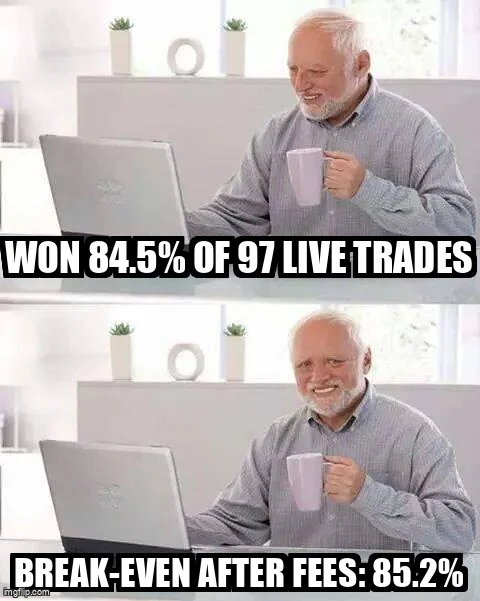
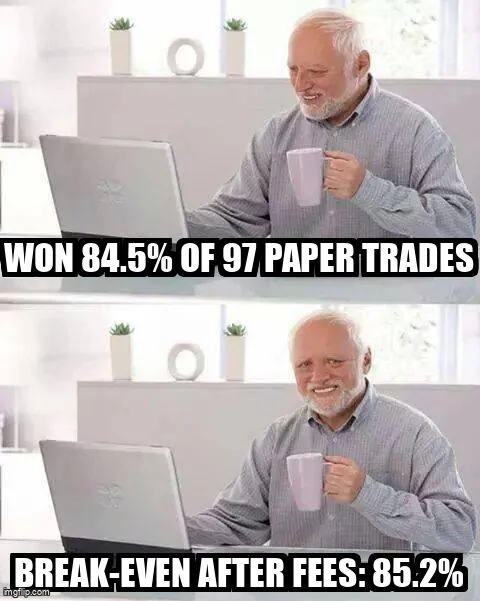
Selection review fixes and KSUR count
- KSUR: more than twenty client websites, mostly in Morocco, plus La Reunion
  (home, portfolio card, /cv, both PDFs, kit); THE ICON partnership kept apart
- Piktechs: tests "run in CI on every push" (deploy does not wait for CI),
  card rewritten in the active voice, no per-seat wording implying paying teams
- Polymarket: dashboard screenshot with a real-money panel removed from
  public/; "paper trades" in the post and its regenerated meme; FR "instances"
- Case study: Play Store link removed; kit: THE ICON wording, "multi-locataires"
- ServicesMotion: unused chat CSS removed
- CV PDFs, previews and og/cv.png rebuilt (2 pages each)

Changed region(s): [[0.0, 0.3894, 1.0, 0.4792]]

diff --git a/src/data/profile.js b/src/data/profile.js
@@ -49,7 +49,7 @@ export const proof = [
   { claim: { en: "Agentic QA with jev, Browser Use's browser agent: 16 permanent checks on what each plan unlocks and who can do what, each one decided by a SQL query on the database; its screenshots on closed tickets found 3 bugs the fixes had missed or introduced.", fr: "QA par agent navigateur avec jev, l'agent navigateur de Browser Use : 16 vérifications permanentes sur ce que débloque chaque offre et qui a le droit de faire quoi, chacune tranchée par une requête SQL sur la base ; ses captures sur des tickets clos ont révélé 3 bugs que les correctifs avaient manqués ou introduits." }, source: 'Piktechs' },
   { claim: { en: 'AI card scanner: of four candidate vision models, two obeyed a prompt-injection card and one errored; the fallback is the one that resisted.', fr: "Scanner de cartes IA : sur quatre modèles de vision candidats, deux ont obéi à une carte piégée par injection de prompt et un a planté ; le repli est celui qui a résisté." }, source: 'Piktechs' },
   { claim: { en: "Internal R&D tool to create, store and replay payment test sets; tests before rollout measured the team's development speed 70% higher.", fr: "Outil interne de R&D pour créer, stocker et rejouer des jeux de tests de paiement ; les tests avant la mise en production ont mesuré une vitesse de développement de l'équipe 70 % plus élevée." }, source: 'Worldline' },
-  { claim: { en: 'Paper trading only: ~12,000 simulated trades across 75 runners, settled against the Chainlink oracle; no edge after fees.', fr: "En paper trading seulement : ~12 000 trades simulés sur 75 runners, réglés contre l'oracle Chainlink ; aucun avantage après frais." }, source: 'Polymarket Up/Down Lab' },
+  { claim: { en: 'Paper trading only: ~12,000 simulated trades across 75 runners, settled against the Chainlink oracle; no edge after fees.', fr: "En paper trading seulement : ~12 000 trades simulés sur 75 instances, réglés contre l'oracle Chainlink ; aucun avantage après frais." }, source: 'Polymarket Up/Down Lab' },
   { claim: { en: 'PDFs into structured Markdown, in 11 languages.', fr: 'Des PDF en Markdown structuré, en 11 langues.' }, source: 'PDFold' },
   { claim: { en: 'Shopify store built, grown through SEO and marketing, and sold.', fr: 'Boutique Shopify créée, développée par le SEO et le marketing, puis vendue.' }, source: 'Mon Jouet Montessori' },
   { claim: { en: 'Corporate AI training: two sessions, in French and English.', fr: 'Formation IA en entreprise : deux sessions, en français et en anglais.' }, source: 'DRIVECO' },
@@ -165,7 +165,7 @@ export const experiences = [
       "Multi-tenant workspaces isolated by **Postgres row-level security** across 143 migrations, with role-based permissions, and **live Stripe billing** with per-seat team plans: checkout, customer portal, webhooks and a scheduled reconciliation with Stripe. Every billing or permission change gets a **second review by a different model** from the one that wrote it.",
       "Shipped an **AI business-card scanner**: vision LLM with strict JSON output, a per-user quota and on-device OCR as the last resort; chose the cross-provider fallback by **prompt-injection testing** (==2 of 4== candidate models obeyed an injected card).",
       "**Agentic QA with jev**, Browser Use's browser agent: it signs in to the test app as a user in each account state (free, Pro, lapsed, team member, frozen team) and follows a plain-English goal; **a SQL query on the database then decides pass or fail**. ==16 permanent checks== on what each plan unlocks and who can do what; its before/after screenshots on closed tickets found ==3 bugs== that the fixes had missed or introduced. Open-sourced as account-state-check.",
-      "==1,493 unit tests== and ==140 Playwright tests== (Nov 2026) gate CI/CD across separate test and production environments.",
+      "==1,493 unit tests== and ==140 Playwright tests== (Nov 2026) run in CI on every push, with separate test and production environments.",
       "**Android app on Google Play** from the same codebase (Capacitor), CRM sync and a Zapier integration.",
     ],
     stack: ["React", "TypeScript", "Vite", "Tailwind", "Supabase (Postgres, RLS, Edge Functions)", "Stripe", "Capacitor", "OpenRouter", "Resend", "Playwright", "Vitest", "jev (Browser Use)", "GitHub Actions", "Cloudflare Pages", "Claude Code"],
@@ -201,7 +201,7 @@ export const experiences = [
     location: "France · Morocco",
     summary: "Web agency (agence-ksur.com): websites, e-commerce and web apps for small businesses.",
     achievements: [
-      "Run the **technical stack and delivery** for ==six live client sites== in Morocco and La Réunion.",
+      "KSUR has built ==more than twenty client websites==, mostly in Morocco, plus La Réunion; I run the **technical side, delivery and hosting**.",
       "**Partnership with THE ICON** (the-icon.be), a Belgian marketing and sales agency: KSUR built THE ICON's website, and the sites of two of its Belgian clients in French, English and Dutch.",
       "Run the agency's hosting: one VPS serving the agency site, its demo sites and five client sites, with deployment on every push to GitHub and an email check per client site in CI.",
     ],
@@ -333,7 +333,7 @@ const allProjects = [
     category: 'saas',
     categoryLabel: 'SaaS',
     role: 'Co-Founder & CTO',
-    description: 'B2B SaaS for digital business cards (NFC and QR) at professional events: lead capture with an AI card scanner, a CRM and team workspaces. I am its only engineer. Workspaces are isolated by Postgres row-level security, team plans are billed per seat through Stripe webhooks and a scheduled reconciliation, and the scanner\'s fallback model was chosen by prompt-injection tests. 1,493 unit and 140 Playwright tests gate each release (Nov 2026).',
+    description: 'B2B SaaS for digital business cards (NFC and QR) at professional events: lead capture with an AI card scanner, a CRM and team workspaces. I am its only engineer: workspace isolation with Postgres row-level security, per-seat Stripe billing with webhooks and a scheduled reconciliation, and a scanner fallback model I chose by prompt-injection tests. 1,493 unit and 140 Playwright tests run in CI on every push (Nov 2026).',
     previews: [
       { label: 'Dashboard', src: `${base}/portfolio/piktechs-devices.webp` },
       { label: 'Live site', src: 'https://piktechs.com' },
@@ -478,7 +478,7 @@ const allProjects = [
     category: 'agency',
     categoryLabel: 'Agency',
     role: 'CTO',
-    description: 'Web agency where I am CTO: websites, e-commerce and web apps for small businesses, with six client sites live in Morocco and La Réunion. Through a partnership with THE ICON, a Belgian marketing agency, KSUR also built THE ICON\'s website and the sites of two of its Belgian clients. I run the technical stack, the delivery and the hosting.',
+    description: 'Web agency where I am CTO. It has built more than twenty client websites, mostly in Morocco, plus La Réunion, along with e-commerce and web apps for small businesses. Through a partnership with THE ICON, a Belgian marketing agency, KSUR also built THE ICON\'s website and the sites of two of its Belgian clients. I run the technical side, the delivery and the hosting.',
     // agence-ksur.com sets frame-ancestors 'self', so it cannot be previewed in an iframe.
     previews: [
       { label: 'Homepage', src: `${base}/portfolio/ksur-home.webp` },
@@ -495,9 +495,9 @@ const allProjects = [
     category: 'research',
     categoryLabel: 'Research',
     role: 'Solo',
-    description: 'A search for a trading edge on Polymarket\'s 5 and 15 minute binary crypto markets, in paper trading only: hypothesis, out-of-sample backtest, simulated trades against the live order books, then falsification. ~12,000 simulated trades across 75 runners, settled against the Chainlink oracle. Result: no edge after fees, and nearly every edge I found came from a measurement artifact.',
+    description: 'A search for a trading edge on Polymarket\'s 5 and 15 minute binary crypto markets, in paper trading only: hypothesis, out-of-sample backtest, simulated trades against the live order books, then falsification. ~12,000 simulated trades across 75 runners, settled against the Chainlink oracle. Result: no edge after fees; nearly every apparent edge came from a measurement artifact.',
     // github.com sets X-Frame-Options: DENY, so the repo cannot be previewed in an iframe.
-    // The dashboard screenshot (portfolio/polymarket-dashboard.webp) left the card on 2026-11-26: it shows a real-money panel.
+    // The dashboard screenshot (portfolio/polymarket-dashboard.webp) was removed on 2026-11-26: it showed a real-money panel.
     previews: [
       { label: 'What it found', src: `${base}/portfolio/polymarket-illustration.webp` },
     ],

diff --git a/public/fr.tex b/public/fr.tex
@@ -102,10 +102,10 @@ Ingénieur full-stack, je mets des logiciels en production depuis 2019 (cybersé
 \role{Cofondateur et CTO}{\org{https://piktechs.com}{Piktechs}}{France}{Mars 2026 -- Aujourd'hui}
 \begin{itemize}
     \item \textbf{Seul ingénieur :} prototype de deux semaines transformé en \textbf{SaaS B2B en production} pour collecter des contacts sur les salons et événements
-    \item Espaces multi-clients cloisonnés par la \textbf{RLS de Postgres} (143 migrations) et \textbf{facturation Stripe en production} avec offres par siège, webhooks et rapprochement planifié ; chaque changement de facturation ou de permissions passe des tests, une \textbf{relecture par un second modèle} et mon accord avant la production
+    \item Espaces multi-locataires cloisonnés par la \textbf{RLS de Postgres} (143 migrations) et \textbf{facturation Stripe en production} avec offres par siège, webhooks et rapprochement planifié ; chaque changement de facturation ou de permissions passe des tests, une \textbf{relecture par un second modèle} et mon accord avant la production
     \item \textbf{Scanner de cartes de visite IA} : modèle de vision avec sortie JSON stricte, quota par utilisateur et OCR sur l'appareil en dernier recours ; modèle de repli choisi par des \textbf{tests d'injection de prompt} (\m{2 modèles candidats sur 4} ont obéi à une carte piégée)
     \item \textbf{QA agentique avec jev}, l'agent navigateur de Browser Use : il se connecte à l'application de test avec un compte dans chaque état (gratuit, Pro, expiré, membre d'équipe) et suit un objectif en langage naturel ; \textbf{une requête SQL sur la base décide ensuite si le test passe}. \m{16 vérifications permanentes} sur les accès de chaque offre et les droits ; ses captures avant/après sur des tickets clos ont révélé \m{3 bugs} que les correctifs avaient manqués ou introduits. En open source : \link{https://github.com/emoubarak/account-state-check}{account-state-check}
-    \item \m{1~493 tests unitaires} et \m{140 tests Playwright} (nov. 2026) obligatoires dans la CI/CD, environnements de test et de production séparés ; \textbf{application Android publiée sur Google Play} depuis le même code (Capacitor)
+    \item \m{1~493 tests unitaires} et \m{140 tests Playwright} (nov. 2026) exécutés par la CI à chaque push, environnements de test et de production séparés ; \textbf{application Android publiée sur Google Play} depuis le même code (Capacitor)
 \end{itemize}
 \stackline{React\sep TypeScript\sep Vite\sep Tailwind\sep Supabase (Postgres, RLS, Edge Functions)\sep Stripe\sep Capacitor\sep OpenRouter\sep Resend\sep Playwright, Vitest\sep jev (Browser Use)\sep GitHub Actions\sep Cloudflare Pages\sep Claude Code}
 
@@ -114,7 +114,7 @@ Ingénieur full-stack, je mets des logiciels en production depuis 2019 (cybersé
 \begin{itemize}
     \item \textbf{Conception et exploitation de mon environnement d'agents} : skills, hooks qui transforment les corrections répétées en contrôles, routines planifiées avec alertes d'échec, un \textbf{modèle de 180B à mélange d'experts} (environ 6B actifs par token) en local sur une RTX 3080 20 Go (\link{https://moubarak.dev/harness}{moubarak.dev/harness})
     \item Conception et animation de \textbf{formations IA} pour DRIVECO (opérateur de bornes de recharge) : deux sessions, en français et en anglais, construites sur les processus de l'entreprise, avec un \link{https://www.linkedin.com/posts/el-mahdi-moubarak_merci-\%C3\%A0-toute-l\%C3\%A9quipe-driveco-de-mavoir-share-7480266785208926210-AIX7/}{témoignage public} de sa DRH
-    \item Également CTO de \link{https://www.agence-ksur.com}{KSUR} (agence web) : choix techniques et livraison de \m{six sites clients en ligne} au Maroc et à La Réunion. En partenariat avec \link{https://the-icon.be}{THE ICON} (Belgique), KSUR a réalisé le site de THE ICON et ceux de deux de ses clients belges
+    \item Également CTO de \link{https://www.agence-ksur.com}{KSUR} (agence web) : \m{plus de vingt sites clients}, surtout au Maroc, et à La Réunion ; j'en dirige la partie technique, la livraison et l'hébergement. En partenariat avec \link{https://the-icon.be}{THE ICON} (Belgique), KSUR a réalisé le site de THE ICON et ceux de deux de ses clients belges
 \end{itemize}
 \stackline{TypeScript\sep Python\sep Next.js\sep Node.js\sep Supabase\sep Docker\sep API OpenAI, Claude, Gemini\sep MCP\sep Browser~Use\sep Claude Code}
 
@@ -148,7 +148,7 @@ Ingénieur full-stack, je mets des logiciels en production depuis 2019 (cybersé
 \begin{itemize}
     \project{account-state-check}{https://github.com/emoubarak/account-state-check}{\textbf{skill d'agent open source (MIT)} pour Claude Code, Codex et OpenClaw, qui applique la \textbf{QA par agent navigateur} décrite plus haut à n'importe quelle application de préproduction \stack{Python, CDP}}
     \project{browser-agents}{}{\textbf{orchestrateur auto-hébergé d'agents navigateur} (privé) : profils connectés persistants, un processus isolé par tâche, \textbf{reprise en main par un humain en direct} (WebRTC) pour les connexions et la 2FA, back-office de suivi \stack{Python, Podman, CDP}}
-    \project{Polymarket Up/Down Lab}{https://github.com/emoubarak/polymarket-updown-lab}{recherche en \textbf{paper trading} (trading simulé) sur les marchés crypto à 5 et 15 minutes de Polymarket : \textbf{backtests hors échantillon}, puis \m{\textasciitilde12~000 transactions simulées} sur 75 runners face aux carnets d'ordres en direct. Résultat : \textbf{aucun avantage après frais}}
+    \project{Polymarket Up/Down Lab}{https://github.com/emoubarak/polymarket-updown-lab}{recherche en \textbf{paper trading} (trading simulé) sur les marchés crypto à 5 et 15 minutes de Polymarket : \textbf{backtests hors échantillon}, puis \m{\textasciitilde12~000 transactions simulées} sur 75 instances face aux carnets d'ordres en direct. Résultat : \textbf{aucun avantage après frais}}
     \project{claude-skill-router}{https://github.com/emoubarak/claude-skill-router}{fait charger à Claude Code les skills dont un prompt a besoin ; sur un \textbf{banc d'essai qui rejoue mes propres sessions}, la part des skills utiles chargés passe de \m{57~\% à 84~\%} sur des prompts jamais vus au réglage \stack{Python, hooks Claude Code}}
     \project{WebJev-35B-A3B-GGUF}{https://huggingface.co/emoubarak/WebJev-35B-A3B-GGUF}{\textbf{conversion GGUF} d'un modèle de décision pour agents navigateur, \m{409 téléchargements} sur Hugging Face (nov. 2026) ; en Q4, mêmes décisions qu'en Q8 sur 52 des 54 étapes réelles}
     \project{À lire (en anglais)}{https://moubarak.dev/blog}{\link{https://moubarak.dev/cv\#ai}{ma méthode avec l'IA} ; études de cas : \link{https://moubarak.dev/blog/case-study-ai-card-scanner}{scanner de cartes IA}, \link{https://moubarak.dev/blog/case-study-jev-check}{QA agentique} et \link{https://moubarak.dev/blog/case-study-piktechs}{Piktechs}}

diff --git a/public/en.tex b/public/en.tex
@@ -104,7 +104,7 @@ Full-stack engineer shipping production software since 2019 in cybersecurity, he
     \item Multi-tenant workspaces isolated by \textbf{Postgres row-level security} (143 migrations) and \textbf{live Stripe billing} with per-seat plans, webhooks and a scheduled reconciliation; each billing or permission change needs tests, a \textbf{review by a second model} and my approval before production
     \item Shipped an \textbf{AI business-card scanner}: vision LLM with strict JSON output, per-user quota and on-device OCR as last resort; chose the cross-provider fallback by \textbf{prompt-injection testing} (\m{2 of 4} candidate models obeyed an injected card)
     \item \textbf{Agentic QA with jev}, Browser Use's browser agent: it signs in to the test app as a user in each account state (free, Pro, lapsed, team member) and follows a plain-English goal; \textbf{a SQL query on the database then decides pass or fail}. \m{16 permanent checks} on what each plan unlocks and who can do what; its screenshots on closed tickets found \m{3 bugs} the fixes had missed or introduced. Open-sourced as \link{https://github.com/emoubarak/account-state-check}{account-state-check}
-    \item \m{1,493 unit tests} and \m{140 Playwright tests} (Nov 2026) gate CI/CD across separate test and production environments; \textbf{Android app on Google Play} from the same codebase (Capacitor)
+    \item \m{1,493 unit tests} and \m{140 Playwright tests} (Nov 2026) run in CI on every push, with separate test and production environments; \textbf{Android app on Google Play} from the same codebase (Capacitor)
 \end{itemize}
 \stackline{React\sep TypeScript\sep Vite\sep Tailwind\sep Supabase (Postgres, RLS, Edge Functions)\sep Stripe\sep Capacitor\sep OpenRouter\sep Resend\sep Playwright, Vitest\sep jev (Browser Use)\sep GitHub Actions\sep Cloudflare Pages\sep Claude Code}
 
@@ -113,7 +113,7 @@ Full-stack engineer shipping production software since 2019 in cybersecurity, he
 \begin{itemize}
     \item \textbf{Built and run my own agent harness}: skills, hooks that turn repeated corrections into enforced checks, scheduled routines with failure alerts, and a \textbf{180B mixture-of-experts model} (about 6B active per token) running locally on an RTX 3080 20 GB (\link{https://moubarak.dev/harness}{moubarak.dev/harness})
     \item Designed and delivered \textbf{corporate AI training} for DRIVECO (EV charging operator): two sessions, in French and English, built on the company's own workflows, with a \link{https://www.linkedin.com/posts/el-mahdi-moubarak_merci-\%C3\%A0-toute-l\%C3\%A9quipe-driveco-de-mavoir-share-7480266785208926210-AIX7/}{public testimonial} from its Chief People Officer
-    \item Also CTO of \link{https://www.agence-ksur.com}{KSUR} (web agency): technical stack and delivery for \m{six live client sites} in Morocco and La Réunion. In partnership with \link{https://the-icon.be}{THE ICON} (Belgium), KSUR built THE ICON's website and the sites of two of its Belgian clients
+    \item Also CTO of \link{https://www.agence-ksur.com}{KSUR} (web agency): \m{more than twenty client websites}, mostly in Morocco, plus La Réunion; I run the technical side, delivery and hosting. In partnership with \link{https://the-icon.be}{THE ICON} (Belgium), KSUR built THE ICON's website and the sites of two of its Belgian clients
 \end{itemize}
 \stackline{TypeScript\sep Python\sep Next.js\sep Node.js\sep Supabase\sep Docker\sep OpenAI, Claude, Gemini APIs\sep MCP\sep Browser~Use\sep Claude Code}
 
@@ -147,7 +147,7 @@ Full-stack engineer shipping production software since 2019 in cybersecurity, he
 \begin{itemize}
     \project{account-state-check}{https://github.com/emoubarak/account-state-check}{\textbf{open-source (MIT) agent skill} for Claude Code, Codex and OpenClaw: the \textbf{browser-agent QA} above, packaged for any staging app \stack{Python, CDP}}
     \project{browser-agents}{}{\textbf{self-hosted orchestrator for browser agents} (private): persistent logged-in browser profiles, one isolated worker per task, \textbf{live human hand-off} over WebRTC for logins and 2FA, back-office with a task timeline \stack{Python, Podman, CDP}}
-    \project{Polymarket Up/Down Lab}{https://github.com/emoubarak/polymarket-updown-lab}{research in \textbf{paper trading} on Polymarket's 5- and 15-minute crypto markets: \textbf{out-of-sample backtests}, then \m{\textasciitilde12,000 simulated trades} across 75 runners against the live order books. Result: \textbf{no edge after fees}}
+    \project{Polymarket Up/Down Lab}{https://github.com/emoubarak/polymarket-updown-lab}{\textbf{paper-trading research} on Polymarket's 5- and 15-minute crypto markets: \textbf{out-of-sample backtests}, then \m{\textasciitilde12,000 simulated trades} across 75 runners against the live order books. Result: \textbf{no edge after fees}}
     \project{claude-skill-router}{https://github.com/emoubarak/claude-skill-router}{makes Claude Code load the skills a prompt needs; on a \textbf{bench replayed from my own sessions}, the share of needed skills loaded rose from \m{57\% to 84\%} on prompts the rules were never tuned on \stack{Python, Claude Code hooks}}
     \project{WebJev-35B-A3B-GGUF}{https://huggingface.co/emoubarak/WebJev-35B-A3B-GGUF}{\textbf{GGUF conversion} of a browser-agent decision model, \m{409 downloads} on Hugging Face (Nov 2026); Q4 matches Q8 on 52 of 54 real steps}
     \project{Further reading}{https://moubarak.dev/blog}{\link{https://moubarak.dev/cv\#ai}{how I work with AI}; case studies on \link{https://moubarak.dev/blog/case-study-ai-card-scanner}{the AI card scanner}, \link{https://moubarak.dev/blog/case-study-jev-check}{browser-agent QA} and \link{https://moubarak.dev/blog/case-study-piktechs}{Piktechs}}

diff --git a/src/content/blog/the-great-work-polymarket.md b/src/content/blog/the-great-work-polymarket.md
@@ -55,9 +55,9 @@ Citrinitas is the dawn, the first gleam of gold. Mine gleamed for about 28 hours
 
 My second round of backtests, on the real trade tape, found it: three minutes before the end of a window, buy the favorite that is already extreme, skip the volatile windows. My journal said **+5% per dollar, positive four days out of five**. I put it on the paper broker as **coagula**, the alchemists' word for the moment the work finally solidifies.
 
-97 live paper trades later: it won **84.5%** of the time. Break-even, after fees, was **85.2%**. I was paying 84.2¢ for a favorite that won 84.5% of the time: it won at its price, and the live trades rejected the 8.6-point edge my backtest had promised.
+97 live paper trades later: it won **84.5%** of the time. Break-even, after fees, was **85.2%**. I was paying 84.2¢ for a favorite that won 84.5% of the time: it won at its price, and the paper trades rejected the 8.6-point edge my backtest had promised.
 
-![Hide the Pain Harold meme: "Won 84.5% of 97 live trades", then "Break-even after fees: 85.2%".](/blog/memes/the-great-work-polymarket-2.webp)
+![Hide the Pain Harold meme: "Won 84.5% of 97 paper trades", then "Break-even after fees: 85.2%".](/blog/memes/the-great-work-polymarket-2.webp)
 
 The autopsy found two stacked cherry-picks. The "+5%" came from a single cell of the grid, the one with zero execution cost; the same script in a realistic configuration printed **−$10 a day**, positive on one day in six. And the edge itself was momentum in disguise: the favorite only beats its price when Bitcoin trends, and the four "positive days" were trending days.
 

diff --git a/src/content/blog/case-study-piktechs.md b/src/content/blog/case-study-piktechs.md
@@ -51,7 +51,7 @@ Turning it into a product that bills meant multi-tenant data with real permissio
 
 ## Where it stands in September 2026
 
-The product is in production with live billing, team workspaces, the AI scanner and CRM integrations. The Android app builds and releases from CI and is [live on Google Play](https://play.google.com/store/apps/details?id=com.piktechs.app). The iOS app is not published yet.
+The product is in production with live billing, team workspaces, the AI scanner and CRM integrations. The Android app builds and releases from CI and is on Google Play. The iOS app is not published yet.
 
 Four mistakes, and what I changed after each:
 
